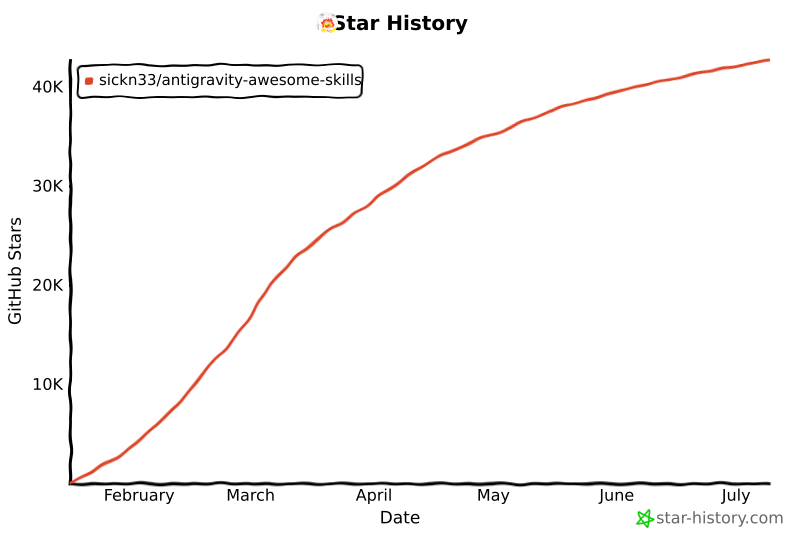
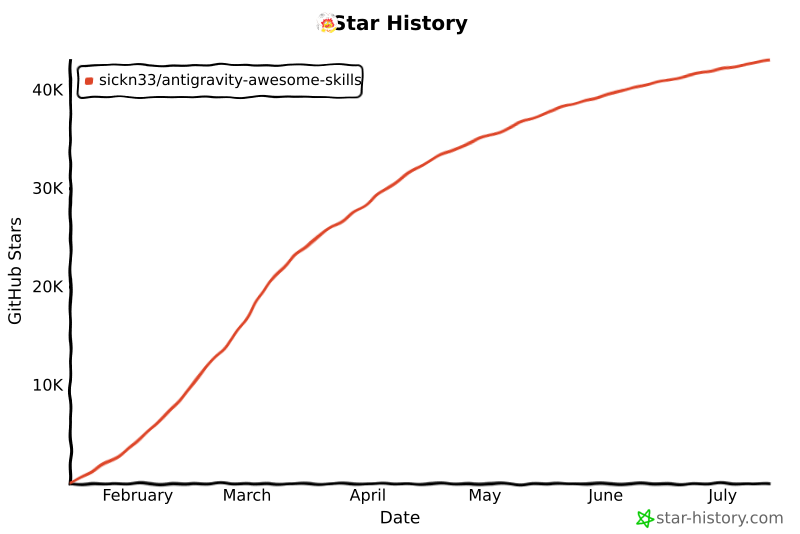
chore: update star history chart

diff --git a/README.md b/README.md
@@ -494,14 +494,14 @@ We officially thank the following contributors for their help in making this rep
 ## Star History
 
 <a href="https://www.star-history.com/#sickn33/antigravity-awesome-skills&type=date&legend=top-left">
- <img alt="Star History Chart" src="https://api.star-history.com/svg?repos=sickn33/antigravity-awesome-skills&type=date&legend=top-left&cache_bust=202607100855" />
+ <img alt="Star History Chart" src="https://api.star-history.com/svg?repos=sickn33/antigravity-awesome-skills&type=date&legend=top-left&cache_bust=202607130841" />
 </a>
 
 <a href="https://www.star-history.com/sickn33/antigravity-awesome-skills">
  <picture>
-   <source media="(prefers-color-scheme: dark)" srcset="https://api.star-history.com/chart?repos=sickn33/antigravity-awesome-skills&style=landscape1&theme=dark&cache_bust=202607100855" />
-   <source media="(prefers-color-scheme: light)" srcset="https://api.star-history.com/chart?repos=sickn33/antigravity-awesome-skills&style=landscape1&cache_bust=202607100855" />
-   <img alt="Star History Chart" src="https://api.star-history.com/chart?repos=sickn33/antigravity-awesome-skills&style=landscape1&cache_bust=202607100855" />
+   <source media="(prefers-color-scheme: dark)" srcset="https://api.star-history.com/chart?repos=sickn33/antigravity-awesome-skills&style=landscape1&theme=dark&cache_bust=202607130841" />
+   <source media="(prefers-color-scheme: light)" srcset="https://api.star-history.com/chart?repos=sickn33/antigravity-awesome-skills&style=landscape1&cache_bust=202607130841" />
+   <img alt="Star History Chart" src="https://api.star-history.com/chart?repos=sickn33/antigravity-awesome-skills&style=landscape1&cache_bust=202607130841" />
  </picture>
 </a>
 
